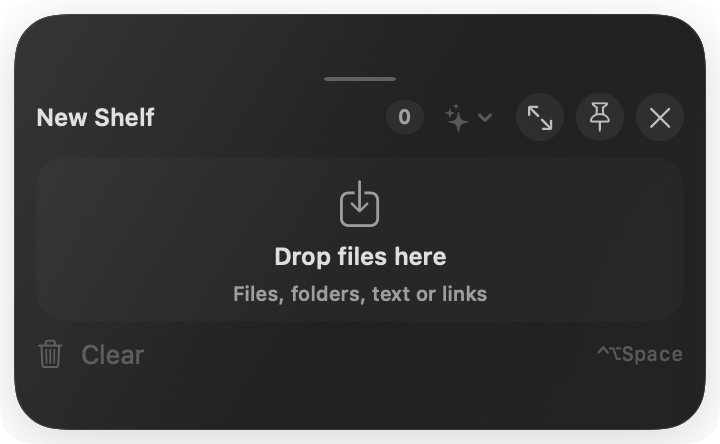
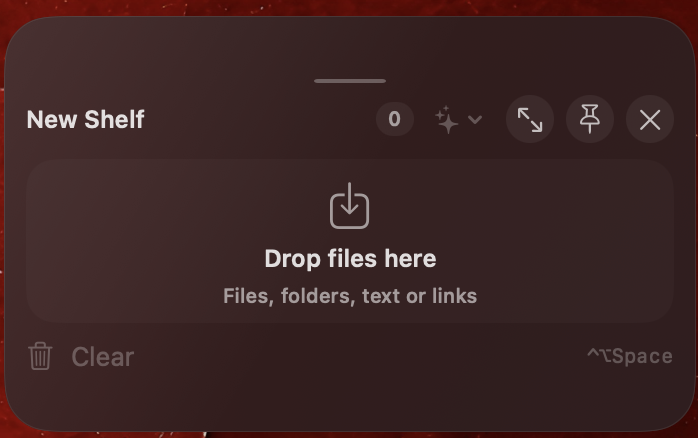
readme and license update

diff --git a/README.md b/README.md
@@ -4,106 +4,109 @@
 
 ### Your files, right where you need them.
 
-Stash is a native macOS floating shelf for collecting files, folders, text, and links while you work — then moving, exporting, or processing them without losing your place.
+Stash is a native macOS floating shelf for collecting files, folders, links, and text while you work — then moving or processing them without losing your place.
 
 ![macOS 13+](https://img.shields.io/badge/macOS-13%2B-000000?logo=apple&logoColor=white)
 ![Swift](https://img.shields.io/badge/Swift-native-F05138?logo=swift&logoColor=white)
 ![Version](https://img.shields.io/badge/version-0.1.1-6E56CF)
+![License: MIT](https://img.shields.io/badge/License-MIT-4E9A06.svg)
 
 </div>
 
-![An empty Stash shelf, captured from the app](docs/assets/stash-empty-shelf.png)
+![A populated Stash shelf with image previews and files](docs/assets/stash-populated-shelf.png)
 
-<p align="center"><sub>The real compact empty shelf in Stash 0.1.1. A populated-shelf capture is tracked in the release checklist before any public binary download.</sub></p>
+<p align="center"><sub>One compact shelf for the files you are actively working with.</sub></p>
 
 ## Why Stash?
 
-Your desktop and Downloads folder are not a workflow. Stash gives you small, independent shelves that stay handy while you collect items from Finder, prepare an attachment, organize a batch, or perform a quick file operation.
+Your desktop and Downloads folder are not a workflow. Stash gives you small, independent shelves that stay handy while you collect files, prepare an attachment, organize a batch, or run a quick file action.
 
-- Keep several focused shelves open at once.
-- Drop files in from Finder and drag them back out when you are ready.
-- Pin important shelves so they come back after restarting Stash.
-- Work locally: Stash does not upload your files or send analytics.
+## Drop it. Keep it. Do more.
 
-## What it does
+### Drop it.
 
-### A floating file shelf
+Drag files, folders, links, or text onto a floating shelf from Finder or another supported app.
 
-- Menu-bar access plus `Control` + `Option` + `Space` to open a shelf.
-- Compact, resizable glass shelves with scrolling, adaptive file tiles, selection, and drag-and-drop.
-- Native image thumbnails where macOS can provide them; clear file icons as a fallback.
-- Text and web links can live beside file references.
+![Empty Stash shelf ready for files](docs/assets/stash-empty-shelf.png)
 
-### Smart actions, without leaving your workflow
+### Keep it.
 
-| Action | What it does |
+Open multiple shelves, resize them freely, and pin the ones that should return after a restart.
+
+![Populated Stash shelf with image thumbnails](docs/assets/stash-populated-shelf.png)
+
+### Do more.
+
+Select files and use Smart Actions without interrupting the work in front of you.
+
+![Stash Smart Actions menu](docs/assets/stash-smart-actions.png)
+
+## Built for the way macOS works
+
+| | |
 | --- | --- |
-| Image conversion and resizing | Creates a new image output; source files stay intact. |
-| ZIP creation | Archives only the selected files and folders with safe relative paths. |
-| Batch rename | Shows a validated preview and asks for confirmation before renaming originals. |
-| PDF merge | Combines selected, readable PDFs in the order you choose. |
-
-Generated results are retained in `~/Library/Application Support/Stash/Generated Outputs` so they remain usable after a relaunch.
+| **Floating glass shelves** | Compact, resizable shelves that stay out of your way until you need them. |
+| **Native drag-and-drop** | Bring items in from Finder and drag them back out to Finder, an attachment field, or another supported destination. |
+| **Multiple focused shelves** | Keep separate groups for a task, project, or handoff. |
+| **Quick visual recognition** | Native image thumbnails and clean filename truncation make items easier to scan. |
+| **Smart Actions** | Convert or resize images, create ZIPs, batch rename, and merge PDFs. |
+| **Local-first** | Your files stay on your Mac. Stash has no network features, analytics, or telemetry. |
 
 ## Getting started
 
-Stash currently ships as a source-build beta. There is no Developer ID-signed, notarized public download yet, so the recommended path is to build it from this checkout on a Mac running macOS 13 or later.
+### Build from source — available now
 
-1. Install Apple’s Xcode Command Line Tools if they are not already installed:
+Stash is currently a source-build beta for **macOS 13 or later**. From a checkout of this repository:
 
-   ```zsh
-   xcode-select --install
-   ```
+```zsh
+xcode-select --install # only if Xcode Command Line Tools are not installed
+./Packaging/package-release.sh
+open -n build/Stash.app
+```
 
-2. In Terminal, from this project folder, build the app:
+Look for Stash in the menu bar, or press `Control` + `Option` + `Space` to open a shelf.
 
-   ```zsh
-   ./Packaging/package-release.sh
-   ```
+### Download a public release — not available yet
 
-3. Launch it:
+There is no verified public binary release today. The local package at `build/Stash-0.1.1.zip` is ad-hoc signed for development and testing; it is **not notarized**. A Developer ID-signed, notarized release will be documented here only after it exists.
 
-   ```zsh
-   open -n build/Stash.app
-   ```
+## Smart Actions
 
-4. Look for the Stash icon in the menu bar, or press `Control` + `Option` + `Space` to create a shelf.
+| Action | Result |
+| --- | --- |
+| **Convert Images** | Creates a new image in your chosen format; the original stays unchanged. |
+| **Resize Images** | Produces resized copies without altering source images. |
+| **Create ZIP** | Archives only the items you select, using safe relative paths. |
+| **Batch Rename** | Previews a collision-safe rename plan and asks for confirmation before changing originals. |
+| **Merge PDFs** | Combines selected, readable PDFs in the order you choose. |
 
-The locally produced archive is `build/Stash-0.1.1.zip`. It is ad-hoc signed for local testing, not notarized for public distribution.
+Generated files are retained locally in `~/Library/Application Support/Stash/Generated Outputs` so they remain usable after relaunching.
 
-## A quick first shelf
+## Privacy and safety
 
-1. Open a shelf from the menu bar or with `Control` + `Option` + `Space`.
-2. Drag files or folders from Finder onto the shelf.
-3. Drag an item from a tile directly back into Finder, an email attachment field, or another supported target.
-4. Select files and choose a Smart Action from the shelf toolbar when you want to convert, archive, rename, or merge them.
-5. Pin a shelf to restore it at its saved position and size the next time Stash launches.
+- Stash keeps file references; it does not silently copy files into a shelf.
+- Image, ZIP, and PDF actions create new output files rather than overwrite originals.
+- Batch Rename is intentionally different: it renames selected originals only after you review and confirm the plan.
+- Missing file references are shown as unavailable instead of silently removed.
 
-For a complete hands-on pass, see the [manual QA checklist](docs/manual-qa.md).
+## Building from source
 
-## Privacy and file safety
-
-- Stash is local-first. It has no network features, analytics, or telemetry.
-- Shelves hold references to your existing files; they do not silently duplicate source files.
-- Image, ZIP, and PDF actions create new outputs instead of overwriting originals.
-- Batch Rename is the exception by design: it changes selected original names only after you review and confirm the plan.
-- Missing file references are shown as unavailable rather than silently removed.
-
-## Current release status
-
-Version 0.1.1 is a polished local beta, not yet a public downloadable release. It is ad-hoc signed and has not been notarized. The remaining publication work is documented in the [release guide](docs/release.md), including Developer ID signing, notarization, a populated-shelf screenshot pass, and manual macOS QA.
-
-## Contributing
-
-Before sharing a change, run the full local checks:
+Run the project’s complete automated checks before packaging a build:
 
 ```zsh
 ./Tools/run-regressions.sh
 ./Packaging/package-release.sh
+codesign --verify --deep --strict --verbose=2 build/Stash.app
 ```
 
-The architecture and project decisions are outlined in [docs/architecture.md](docs/architecture.md).
+See the [release guide](docs/release.md) for packaging, signing, and manual QA requirements.
 
-## License
+## Contributing
 
-No license has been selected or included yet. Until a license is added, this repository does not provide a public open-source use grant.
+Contributions are welcome. Please preserve the local-first model, avoid changing file sources unexpectedly, and run the checks above before opening a change. The project architecture is described in [docs/architecture.md](docs/architecture.md).
+
+## License and release status
+
+Stash is licensed under the [MIT License](LICENSE).
+
+Version 0.1.1 is a source-build beta. It is ad-hoc signed, not notarized, and has no public binary release yet. See the [manual QA checklist](docs/manual-qa.md) and [release guide](docs/release.md) for the remaining release work.

diff --git a/docs/assets/README.md b/docs/assets/README.md
@@ -1,5 +1,5 @@
 # Release screenshots
 
-`stash-empty-shelf.png` is a direct capture of the actual 0.1.1 app window. It is safe to use in the README because it contains no user files or desktop background.
+`stash-empty-shelf.png`, `stash-populated-shelf.png`, and `stash-smart-actions.png` are real 0.1.1 Stash captures supplied for the README. The screenshots are cropped to the app surface and contain no desktop notifications or account details.
 
-Before public distribution, add reviewed captures of a populated shelf, scrolling content, and a Smart Action panel using only disposable fixture files. Follow `docs/manual-qa.md` for the privacy and accuracy checklist.
+Before public distribution, add a reviewed scrolling-content capture and any additional Smart Action panels using only disposable fixture files. Follow `docs/manual-qa.md` for the privacy and accuracy checklist.
